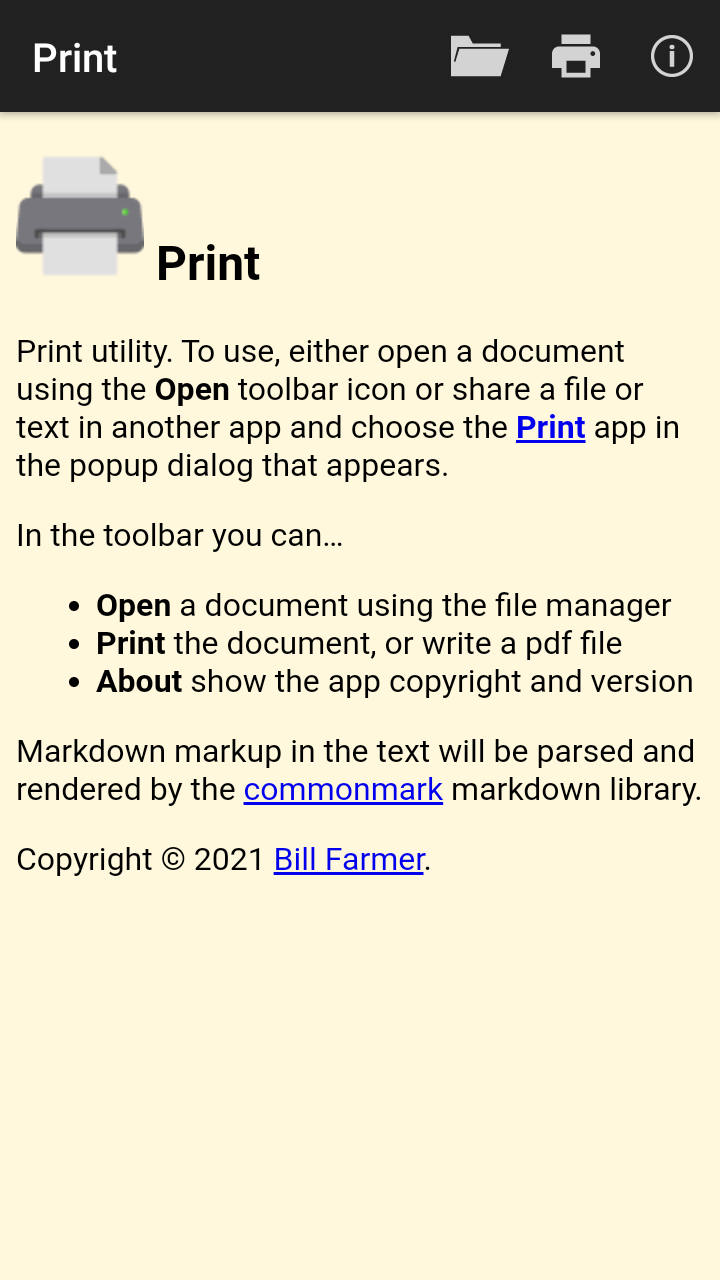
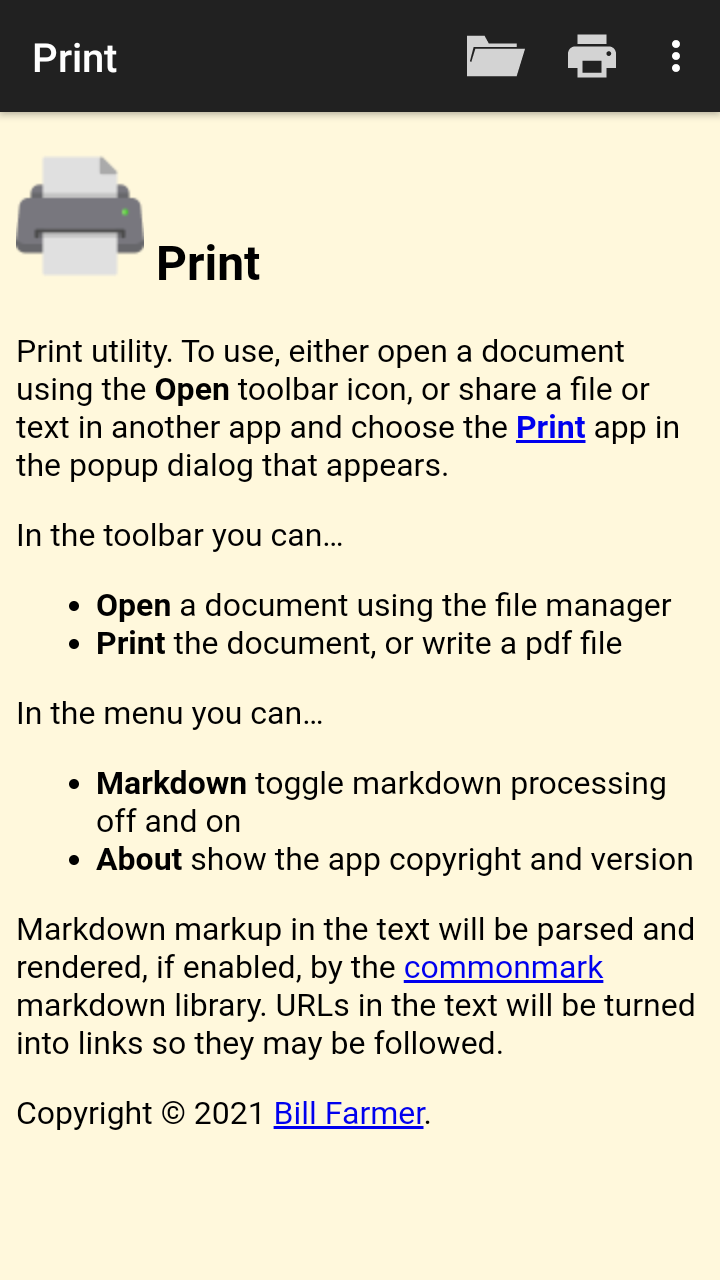
Update help, docs

diff --git a/docs/index.html b/docs/index.html
@@ -1,7 +1,7 @@
 <!DOCTYPE html>
 <html xmlns="http://www.w3.org/1999/xhtml" xml:lang="en-gb" lang="en-gb">
 <head>
-  <meta name="generator" content="Hugo 0.88.0" />
+  <meta name="generator" content="Hugo 0.89.0" />
 
   <meta http-equiv="content-type" content="text/html; charset=utf-8">
   <meta name="viewport" content="width=device-width, initial-scale=1.0, maximum-scale=1">
@@ -25,6 +25,11 @@
   <a href="https://github.com/billthefarmer/print" target="_blank" >
     <img src="images/icon.png"
           style="max-width: 25%"
+          />
+  </a>
+    
+  <a href="https://f-droid.org/packages/org.billthefarmer.print" target="_blank" >
+    <img src="https://f-droid.org/wiki/images/c/ca/F-Droid-button_available-on_smaller.png"
           />
   </a>
     
@@ -138,6 +143,10 @@ the popup dialog that appears.</p>
 <ul>
 <li><strong>Open</strong> a document with the file manager</li>
 <li><strong>Print</strong> the document, or write a pdf file</li>
+</ul>
+<p>In the menu you can…</p>
+<ul>
+<li><strong>Markdown</strong> toggle markdown processing off and on</li>
 <li><strong>About</strong> show the app copyright and version</li>
 </ul>
 
@@ -169,9 +178,9 @@ the popup dialog that appears.</p>
     </h3>
     
     <div class="content">
-        <p>Markdown markup in the text will be parsed and rendered by the
-<a href="https://github.com/commonmark/commonmark-java">commonmark</a> markdown library. URLs in the text will be turned into
-links so they may be followed.</p>
+        <p>Markdown markup in the text will be parsed and rendered, if enabled,
+by the <a href="https://github.com/commonmark/commonmark-java">commonmark</a> markdown library. URLs in the text will be
+turned into links so they may be followed.</p>
 
     </div>
 </section>

diff --git a/src/main/assets/print.html b/src/main/assets/print.html
@@ -20,10 +20,17 @@
     <ul>
       <li><strong>Open</strong> a document using the file manager</li>
       <li><strong>Print</strong> the document, or write a pdf file</li>
+    </ul>
+    <p>
+      In the menu you can…
+    </p>
+    <ul>
+      <li><strong>Markdown</strong> toggle markdown processing off and on</li>
       <li><strong>About</strong> show the app copyright and version</li>
     </ul>
     <p>
-      Markdown markup in the text will be parsed and rendered by the
+      Markdown markup in the text will be parsed and rendered, if
+      enabled, by the
       <a href="https://github.com/commonmark/commonmark-java">commonmark</a>
       markdown library. URLs in the text will be turned into links so
       they may be followed.

diff --git a/docs/404.html b/docs/404.html
@@ -1,7 +1,7 @@
 <!DOCTYPE html>
 <html xmlns="http://www.w3.org/1999/xhtml" xml:lang="en-gb" lang="en-gb">
 <head>
-  <meta name="generator" content="Hugo 0.88.0" />
+  <meta name="generator" content="Hugo 0.89.0" />
 
   <meta http-equiv="content-type" content="text/html; charset=utf-8">
   <meta name="viewport" content="width=device-width, initial-scale=1.0, maximum-scale=1">
